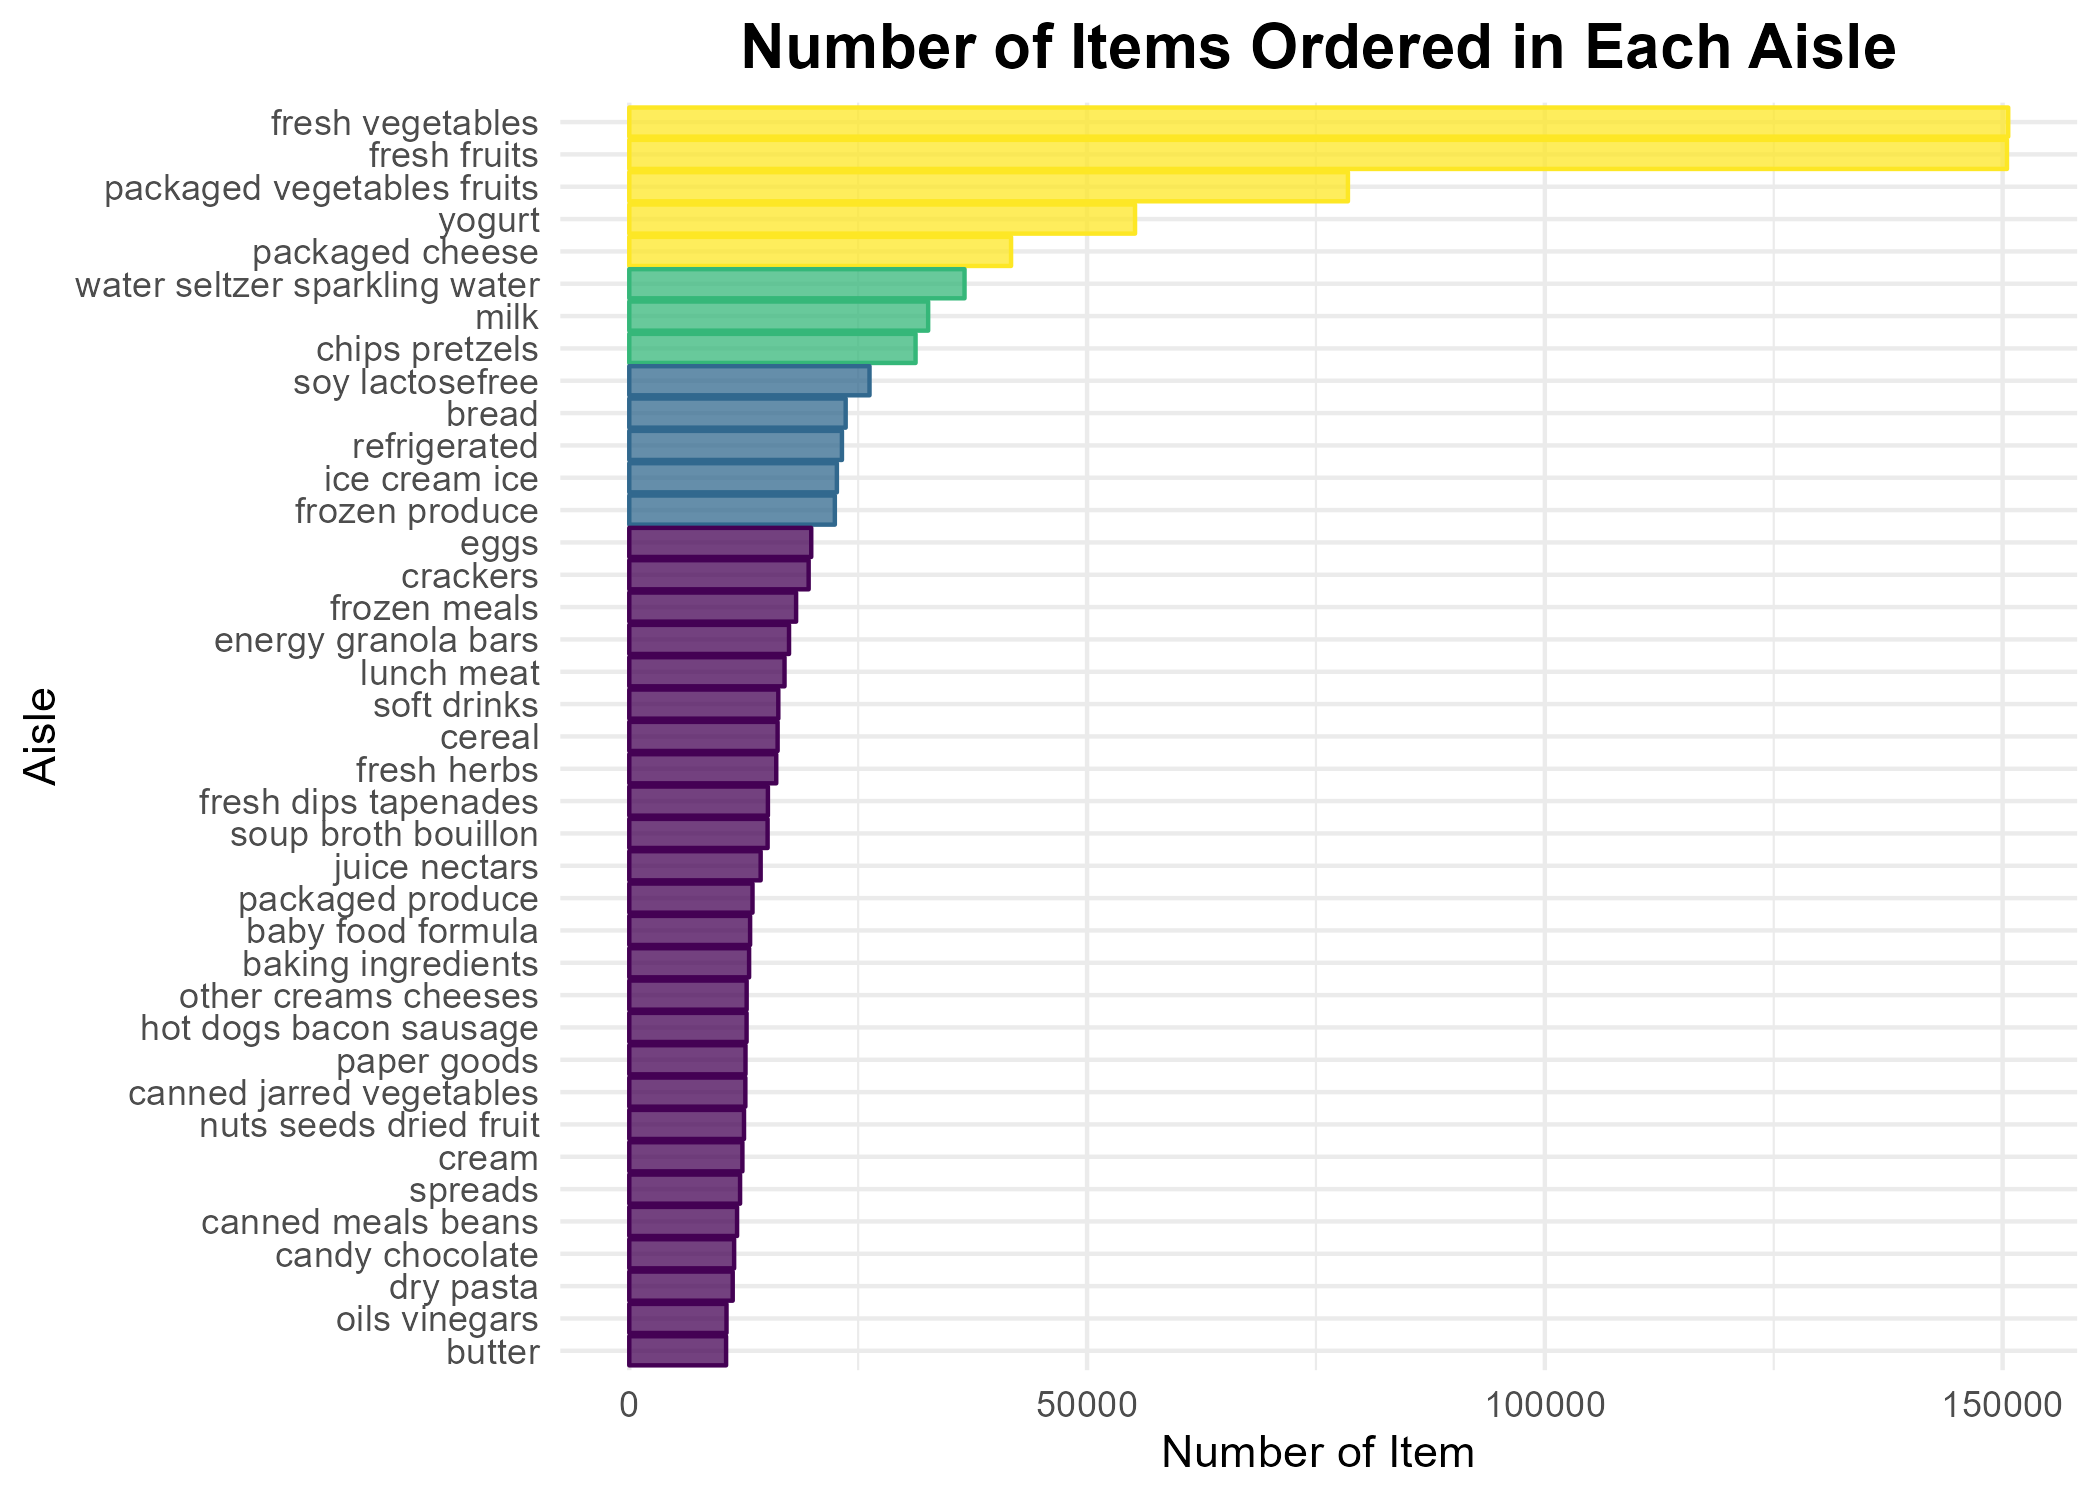
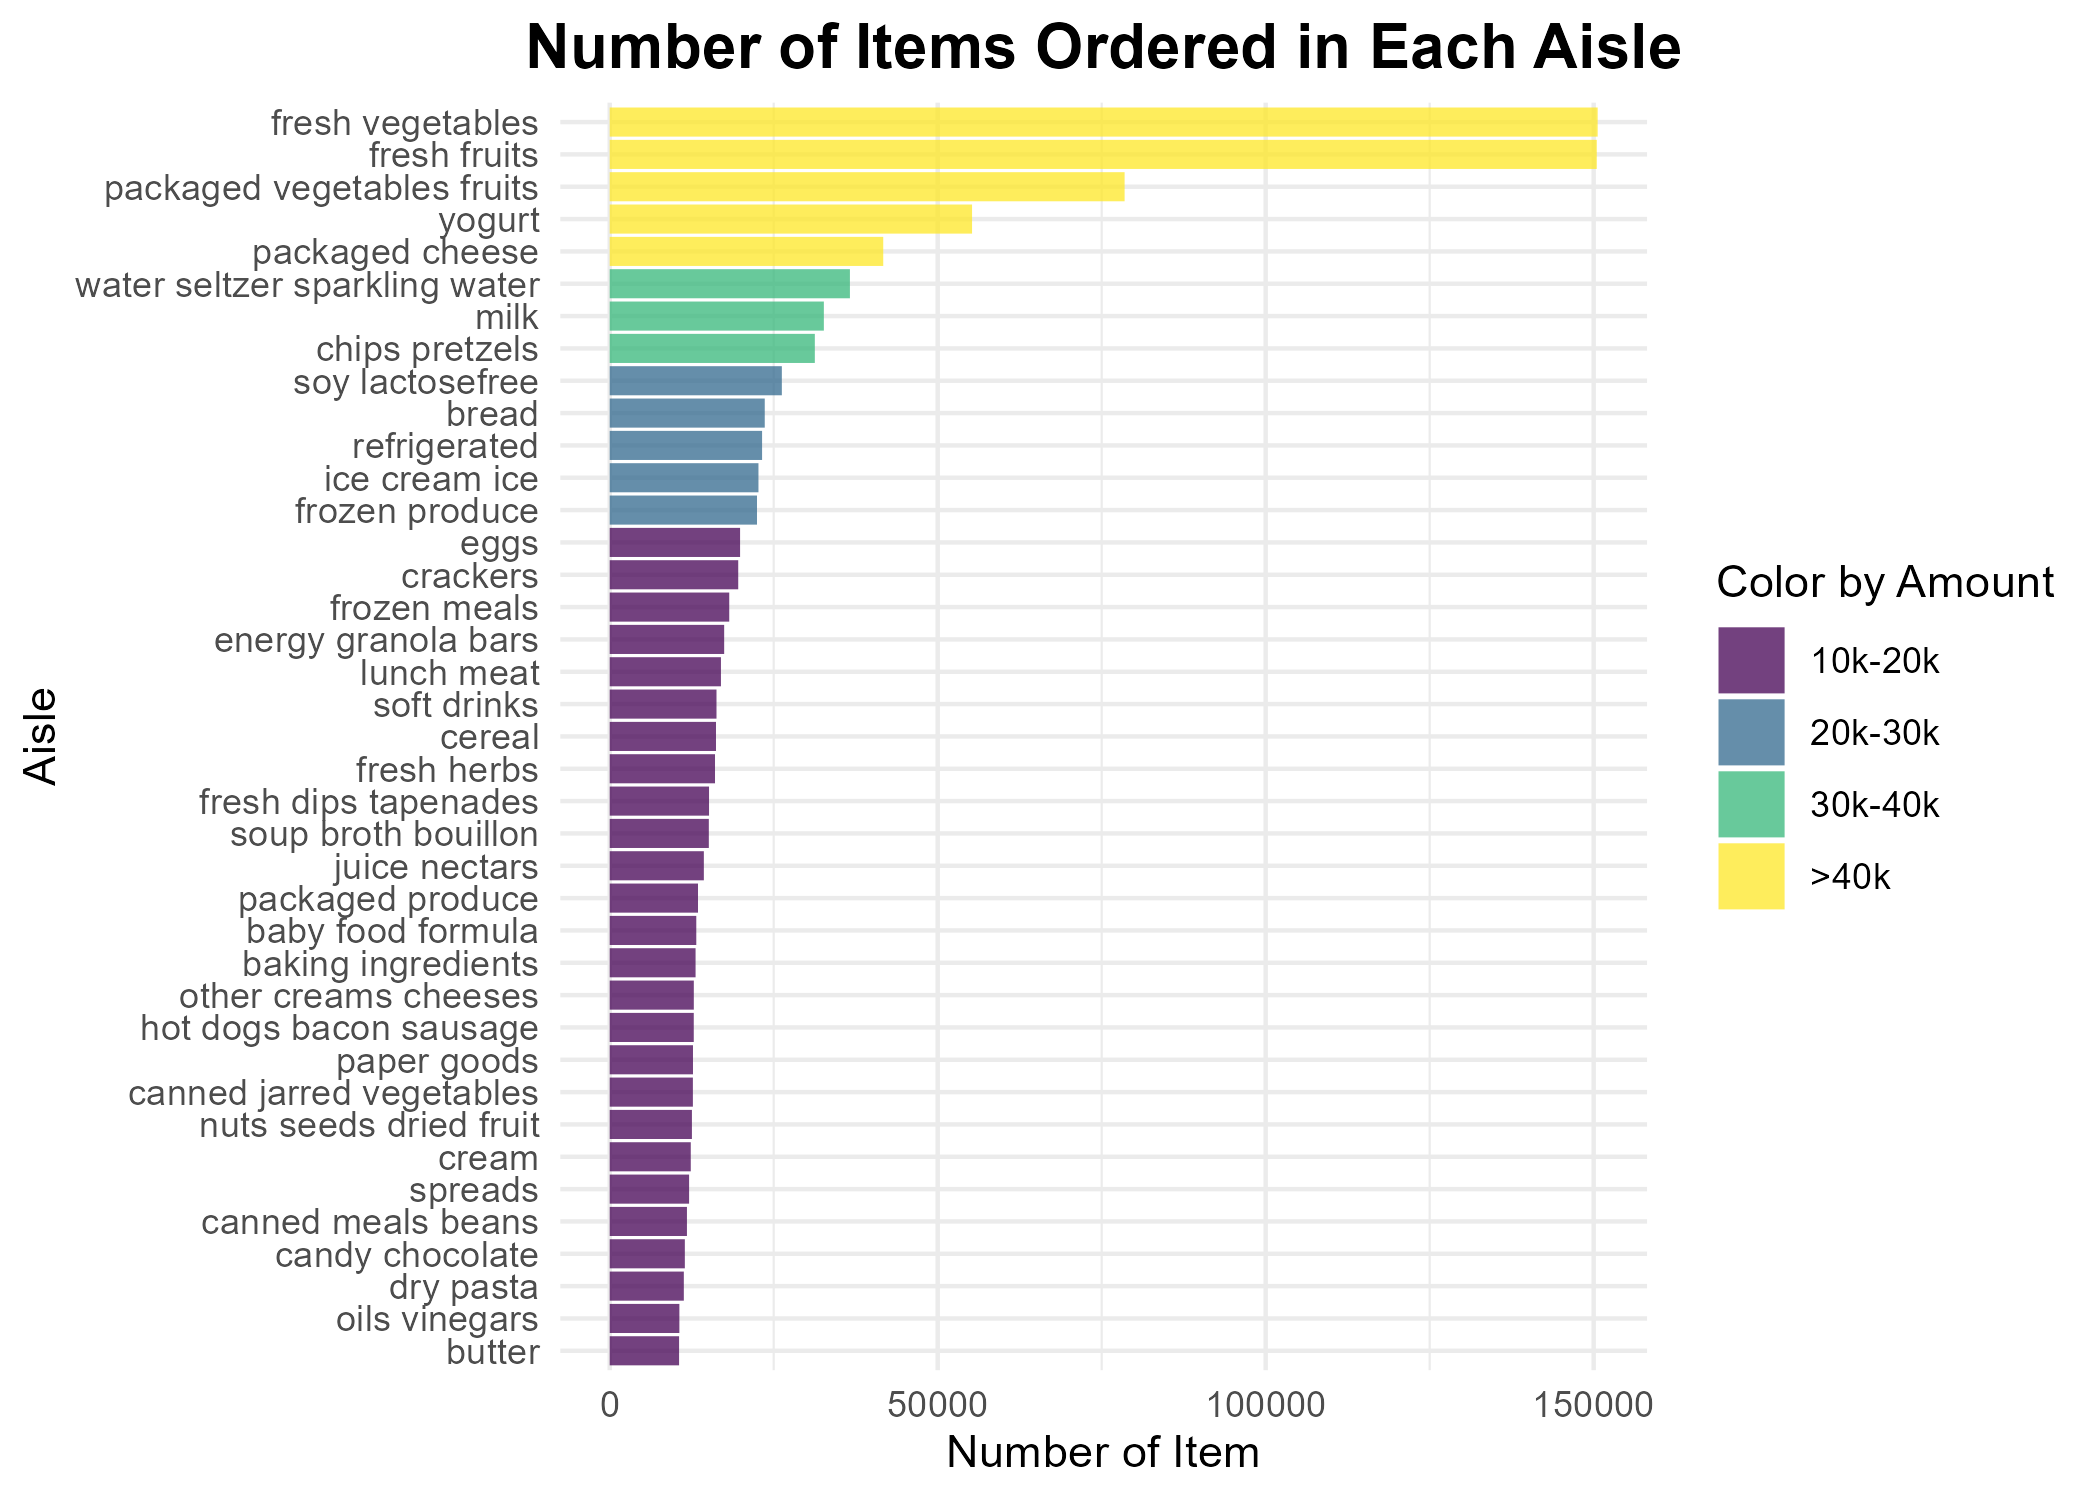
adding comments for answers in problem 1 and correcting some plotting mistakes

diff --git a/p8105_hw3_yl5508.md b/p8105_hw3_yl5508.md
@@ -32,9 +32,9 @@ head(instacart, 5)
     ## #   days_since_prior_order <int>, product_name <chr>, aisle_id <int>,
     ## #   department_id <int>, aisle <chr>, department <chr>
 
-First, we shall take a quick look at the dataset.  
-The `instacart` dataset contains 1384617 obs. and 15 variables. For some
-key variables, the delineation for such is shown as below:  
+First, take a quick look at the dataset.  
+The `instacart` dataset contains 1384617 obs. and 15 variables.  
+For some key variables, the delineation for such is shown as below:  
 - `order_id` is order identifier, `product_id` is product identifier,
 `user_id` is customer identifier. `product_name` is name of the product.
 `aisle_id` is aisle identifier. `aisle` is the name of the aisle.
@@ -83,9 +83,9 @@ head(ais_num, 5)
   #arrange(-count)
 ```
 
-**(a)** 134 (or using 134) aisles are existed in data.  
-fresh vegetables is aisle that most items ordered from. The amount of
-items for this aisle is 150609.
+**(a)** 134 aisles are existed in data.  
+We notice that fresh vegetables is the aisle that most items ordered
+from. The amount of items for this aisle is 150609.
 
 ``` r
 #(b)
@@ -97,7 +97,7 @@ ais_10k =
 
 ais_10k_vertical =
   ais_10k |>
-  ggplot(aes(x = reorder(aisle, -count), y = count, fill = factor(color), color = factor(color))) +
+  ggplot(aes(x = reorder(aisle, -count), y = count, fill = factor(color))) +
   #reorder ais_10k$aisle according to ais_10k$count. 
   #Actually, it is a factors reorder function, we can use parameter "FUN" to calculate the value in one factor as the reorder criteria.
   #'fill': color the inside, 'color': color the contour.
@@ -107,13 +107,12 @@ ais_10k_vertical =
     x = "Aisle",
     y = "Number of Item",
   ) +
-  viridis::scale_fill_viridis(discrete = TRUE, option = "viridis") +
+  viridis::scale_fill_viridis(discrete = TRUE, option = "viridis", labels = c("2" = "10k-20k", "3" = "20k-30k", "4" = "30k-40k", "more" = ">40k")) +
   #connected with parameter 'fill'.
-  viridis::scale_color_viridis(discrete = TRUE, option = "viridis") +
-  #connected with parameter 'color'.
   #or using parameter 'scale_fill_hue(h = c(100, 400)) +'.
+  guides(fill = guide_legend("Color by Amount")) +
   theme_minimal() +
-  theme(plot.title = element_text(size = 15, face = "bold", hjust = 0.5), axis.text.x = element_text(angle = 90, hjust = 1), legend.position = "none")
+  theme(plot.title = element_text(size = 15, face = "bold", hjust = 0.5), axis.text.x = element_text(angle = 90, hjust = 1))
 ais_10k_vertical
 ```
 
@@ -122,17 +121,17 @@ ais_10k_vertical
 ``` r
 ais_10k_horizontal =
   ais_10k |>
-  ggplot(aes(x = reorder(aisle, count), y = count, fill = factor(color), color = factor(color))) +
+  ggplot(aes(x = reorder(aisle, count), y = count, fill = factor(color))) +
   geom_bar(stat = "identity", alpha = 0.75) +
   labs(
     title = "Number of Items Ordered in Each Aisle",
     x = "Aisle",
     y = "Number of Item",
   ) +
-  viridis::scale_fill_viridis(discrete = TRUE, option = "viridis") +
-  viridis::scale_color_viridis(discrete = TRUE, option = "viridis") +
+  viridis::scale_fill_viridis(discrete = TRUE, option = "viridis", labels = c("2" = "10k-20k", "3" = "20k-30k", "4" = "30k-40k", "more" = ">40k")) +
+  guides(fill = guide_legend("Color by Amount")) +
   theme_minimal() +
-  theme(plot.title = element_text(size = 15, face = "bold", hjust = 0.5), legend.position = "none") +
+  theme(plot.title = element_text(size = 15, face = "bold", hjust = 0.5)) +
   coord_flip()
 ais_10k_horizontal
 ```
@@ -181,7 +180,14 @@ pop_num
 we group the data by variables `aisle` and `product_name`. Use
 `summarise` to generate the count of specific items given to the
 selected groups. At last, `top_n` is used to pick the 3 products with
-the biggest count in selected aisles.
+the biggest count in selected aisles.  
+The 3 most popular items in `baking ingredients` are
+`Light Brown Sugar`, `Pure Baking Soda`, `Cane Sugar`. In
+`dog food care`, they are
+`Snack Sticks Chicken & Rice Recipe Dog Treats`,
+`Organix Chicken & Brown Rice Recipe`, `Small Dog Biscuits`. In
+`packaged vegetables fruits`, they are `Organic Baby Spinach`,
+`Organic Raspberries`, `Organic Blueberries`.
 
 ``` r
 #(d)
@@ -322,7 +328,8 @@ We take `health_clean` dataset as original data, and group the data up
 by variables `year` and `state`. Then, use `summarise()` to get the
 average of `data_vale` across locations within a state. At last, a
 spaghetti plot is drawn from the dataset manipulated using methods as
-mentioned above.
+mentioned above. We can hardly interpret a trend from the plot, but only
+fluctuated.
 
 ``` r
 health_clean |>
@@ -365,7 +372,12 @@ res_hea_06 + res_hea_10
 
 Picture a plot with two panels using data filtered by variables `year`
 and `state` from dataset `health_clean`. We pick boxplot to show the
-distribution of `data_value`.
+distribution of `data_value`.  
+The distribution of different responses within one year is similar for
+2006 and 2010. The basic order for different responses from high data
+value to low one would be `Very good`, `Good`, `Excellent`, `Fair`,
+`Poor`. Averge data value of `Very good` is the highest and that of
+`Poor` is the lowest.
 
 ## Problem 3
 
@@ -471,9 +483,15 @@ age_dis =
   cov_acc |>
   ggplot(aes(x = sex, y = age, fill = sex)) +
   geom_boxplot(alpha = 0.5) +
-  guides(fill = guide_legend("sex")) +
+  guides(fill = guide_legend("Sex")) +
+  labs(
+    title = "Age against Sex and Education",
+    x = "Education Level",
+    y = "Age"
+  ) +
   theme_minimal() +
-  facet_grid(~ education)
+  facet_grid(~ education) +
+  theme(plot.title = element_text(size = 15, face = "bold", hjust = 0.5))
 age_dis
 ```
 
